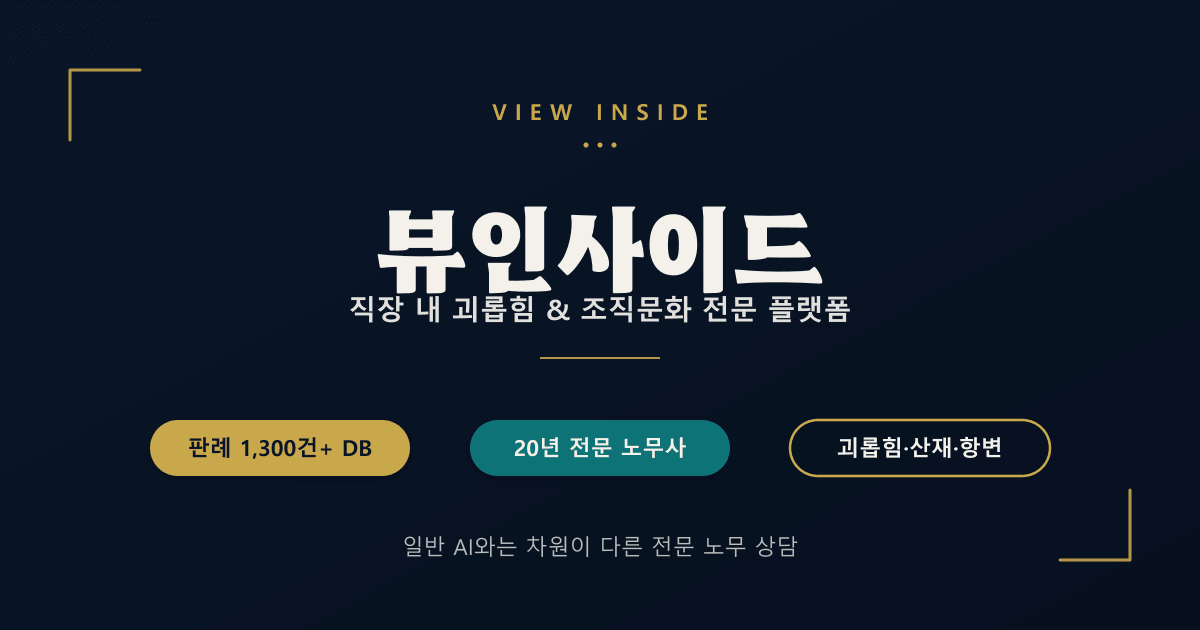
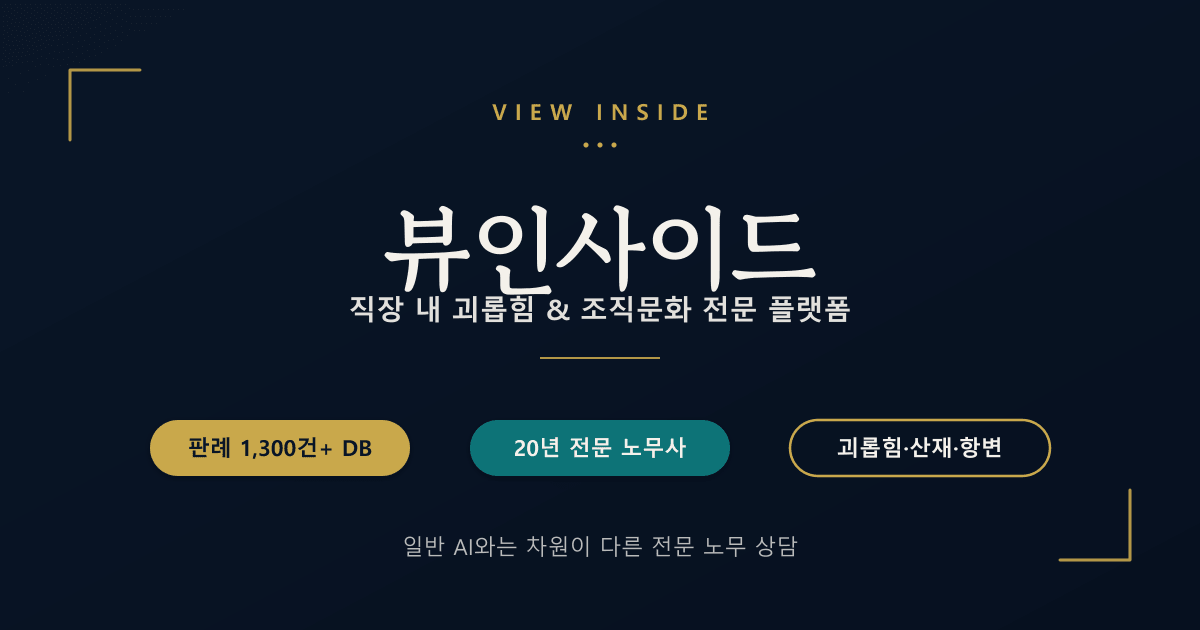
브랜드 로고 폰트 교체: Hahmlet → GowunBatang (단아한 세리프)
되돌리기(Hahmlet로):
  index.html의 url('/fonts/GowunBatang.ttf') → url('/fonts/Hahmlet.ttf')
  scripts/gen-og.js의 BRAND_FONT_ID = "GowunBatang" → "Hahmlet"
  node scripts/gen-og.js 재실행 후 커밋

- index.html @font-face: Hahmlet → GowunBatang
- scripts/gen-og.js BRAND_FONT_ID: "Hahmlet" → "GowunBatang"
- public/og-image.png 재생성
- OG 캐시 무효화 v=20260422d

Changed region(s): [[0.3083, 0.3317, 0.7092, 0.4825]]

diff --git a/index.html b/index.html
@@ -13,7 +13,7 @@
     <style>
       @font-face {
         font-family: 'BrandFont';
-        src: url('/fonts/Hahmlet.ttf') format('truetype');
+        src: url('/fonts/GowunBatang.ttf') format('truetype');
         font-display: swap;
       }
     </style>
@@ -25,7 +25,7 @@
 <meta property="og:site_name" content="뷰인사이드" />
 <meta property="og:title" content="뷰인사이드 — 직장 내 괴롭힘 & 조직문화 전문 플랫폼" />
 <meta property="og:description" content="20년 노무 전문성과 1,300건+ 실제 판례 DB. 일반 AI와는 차원이 다른 전문 노무 상담을 경험하세요." />
-<meta property="og:image" content="https://hwayul.kr/og-image.png?v=20260422c" />
+<meta property="og:image" content="https://hwayul.kr/og-image.png?v=20260422d" />
 <meta property="og:image:width" content="1200" />
 <meta property="og:image:height" content="630" />
 <meta property="og:url" content="https://hwayul.kr" />
@@ -35,7 +35,7 @@
 <meta name="twitter:card" content="summary_large_image" />
 <meta name="twitter:title" content="뷰인사이드 — 직장 내 괴롭힘 & 조직문화 전문 플랫폼" />
 <meta name="twitter:description" content="20년 노무 전문성과 1,300건+ 실제 판례 DB." />
-<meta name="twitter:image" content="https://hwayul.kr/og-image.png?v=20260422c" />
+<meta name="twitter:image" content="https://hwayul.kr/og-image.png?v=20260422d" />
   </head>
   <body>
     <div id="root"></div>

diff --git a/scripts/gen-og.js b/scripts/gen-og.js
@@ -15,7 +15,7 @@ const CREAM = "#F4F1EB";
 
 // ── 브랜드 로고 폰트: Hahmlet (바꾸려면 아래 BRAND_FONT_ID 수정)
 // 옵션: "Hahmlet" | "GowunBatang" | "BlackHanSans" | "Jua" | "Hahmlet" 등
-const BRAND_FONT_ID = "Hahmlet";
+const BRAND_FONT_ID = "GowunBatang";
 const brandFontPath = path.join(__dirname, "..", "public", "fonts", `${BRAND_FONT_ID}.ttf`);
 const brandFont = fs.existsSync(brandFontPath) ? opentype.loadSync(brandFontPath) : null;
 
